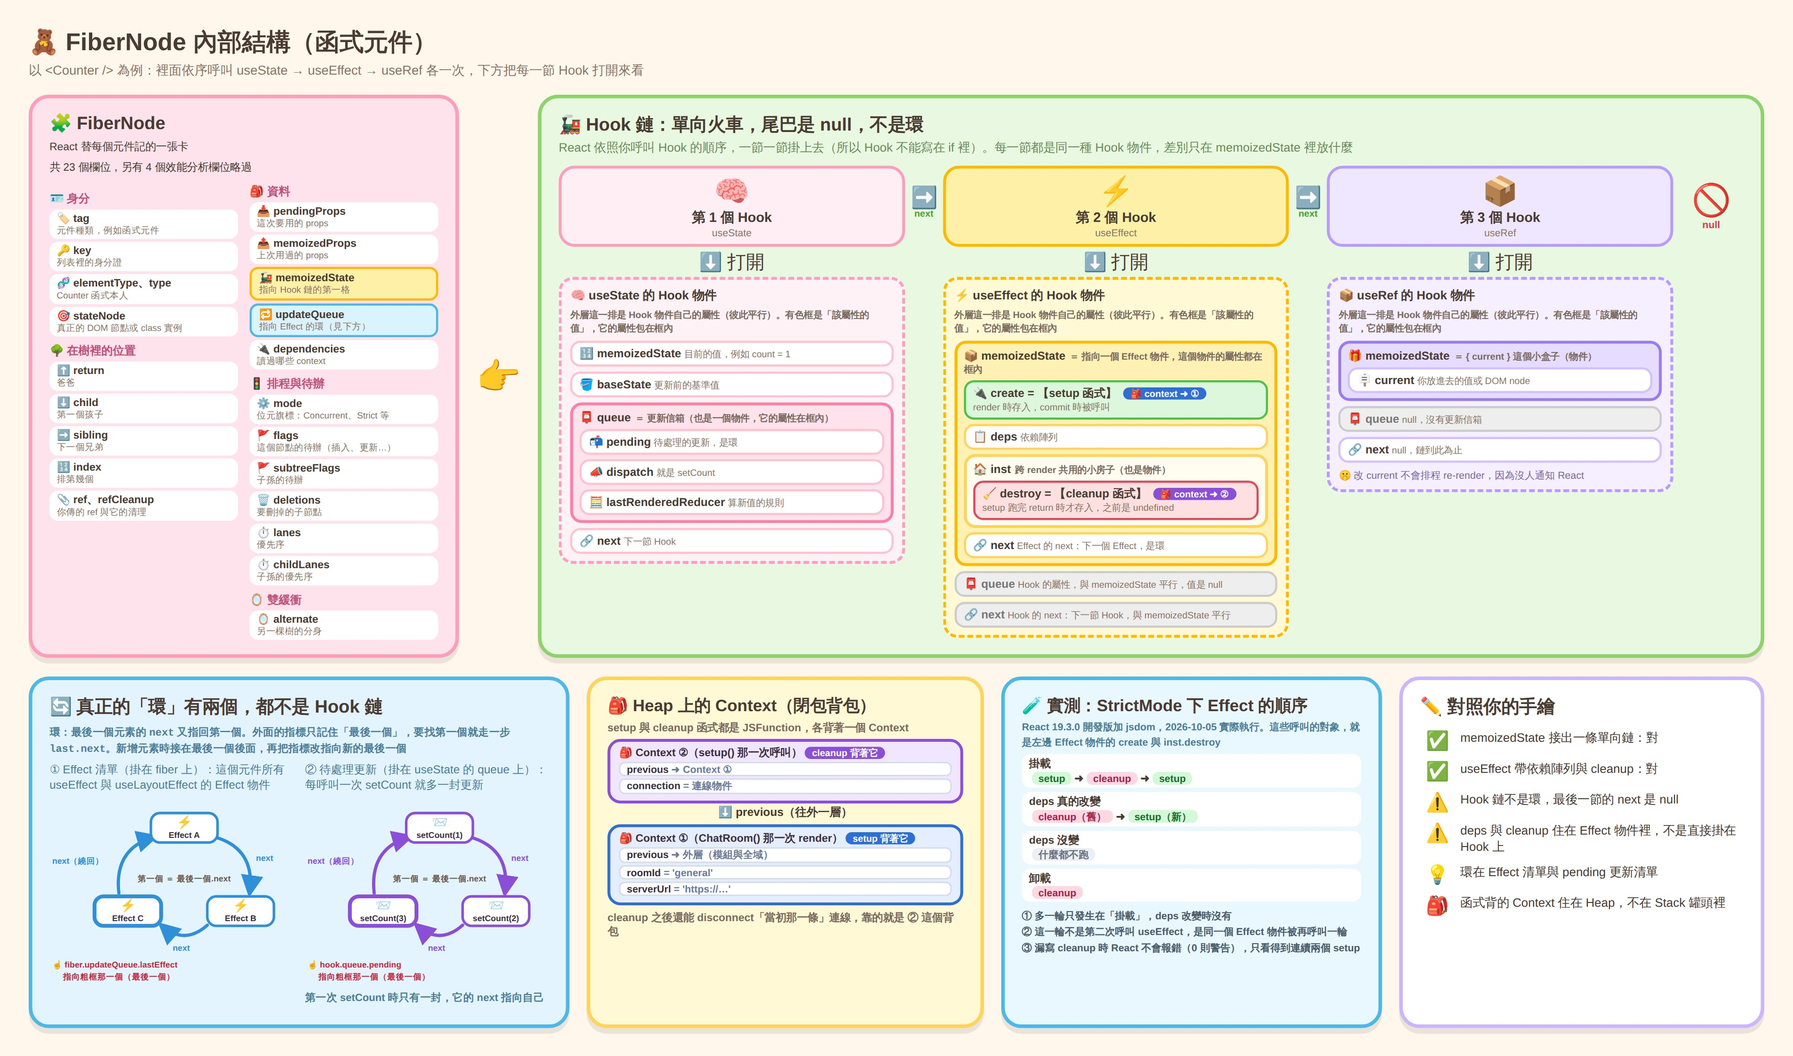
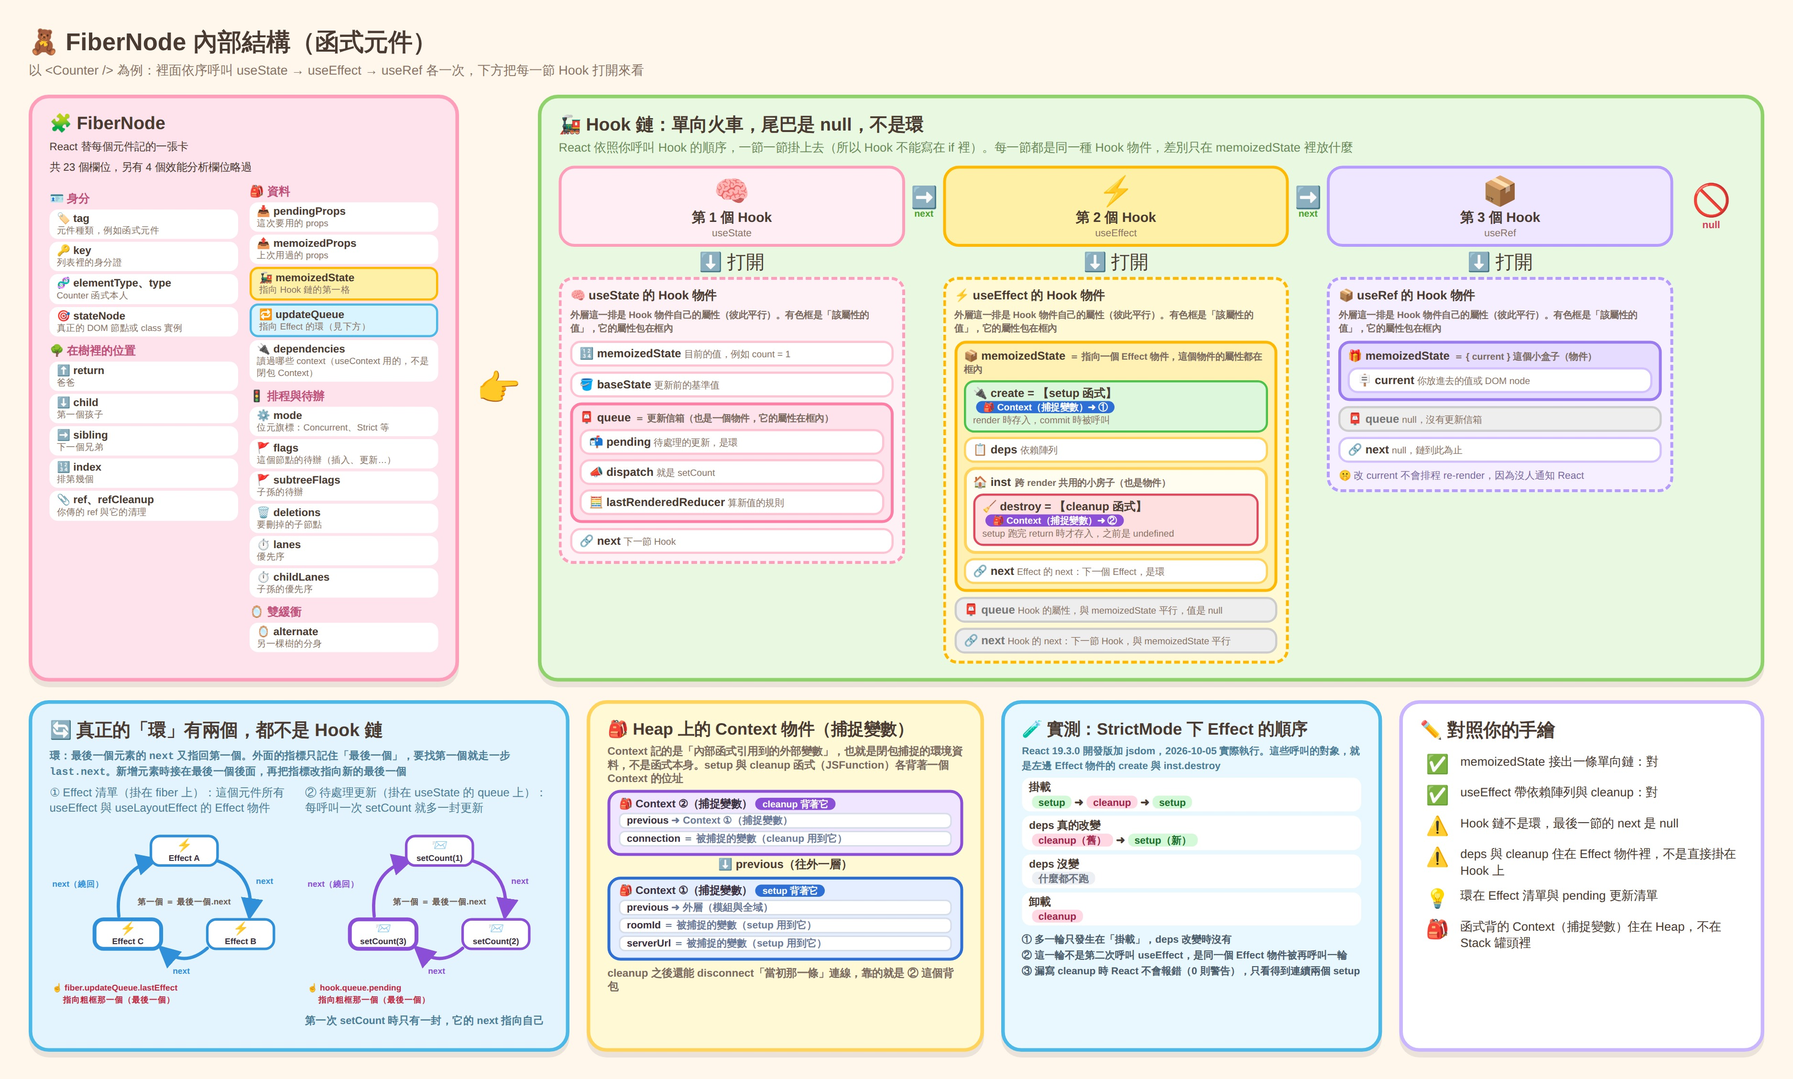
docs: Context 物件旁標註（捕捉變數），強調它記的是閉包捕捉的外部變數而非函式本身

diff --git a/frontend-docs/react/FiberNode內部結構-可愛圖.html b/frontend-docs/react/FiberNode內部結構-可愛圖.html
@@ -106,7 +106,7 @@ td:first-child{width:44px;font-size:26px}
   <div class="row">
     <div class="card fiber">
 <h2>🧩 FiberNode<br><small style="font-size:15px;font-weight:400">React 替每個元件記的一張卡<br>共 23 個欄位，另有 4 個效能分析欄位略過</small></h2>
-<div class="cols"><div class="gb"><div class="grp">🪪 身分</div><div class="f2 "><b>🏷 tag</b><small>元件種類，例如函式元件</small></div><div class="f2 "><b>🔑 key</b><small>列表裡的身分證</small></div><div class="f2 "><b>🧬 elementType、type</b><small>Counter 函式本人</small></div><div class="f2 "><b>🎯 stateNode</b><small>真正的 DOM 節點或 class 實例</small></div></div><div class="gb"><div class="grp">🌳 在樹裡的位置</div><div class="f2 "><b>⬆ return</b><small>爸爸</small></div><div class="f2 "><b>⬇ child</b><small>第一個孩子</small></div><div class="f2 "><b>➡ sibling</b><small>下一個兄弟</small></div><div class="f2 "><b>🔢 index</b><small>排第幾個</small></div><div class="f2 "><b>📎 ref、refCleanup</b><small>你傳的 ref 與它的清理</small></div></div><div class="gb"><div class="grp">🎒 資料</div><div class="f2 "><b>📥 pendingProps</b><small>這次要用的 props</small></div><div class="f2 "><b>📤 memoizedProps</b><small>上次用過的 props</small></div><div class="f2 hot"><b>🚂 memoizedState</b><small>指向 Hook 鏈的第一格</small></div><div class="f2 ring"><b>🔁 updateQueue</b><small>指向 Effect 的環（見下方）</small></div><div class="f2 "><b>🔌 dependencies</b><small>讀過哪些 context</small></div></div><div class="gb"><div class="grp">🚦 排程與待辦</div><div class="f2 "><b>⚙ mode</b><small>位元旗標：Concurrent、Strict 等</small></div><div class="f2 "><b>🚩 flags</b><small>這個節點的待辦（插入、更新…）</small></div><div class="f2 "><b>🚩 subtreeFlags</b><small>子孫的待辦</small></div><div class="f2 "><b>🗑 deletions</b><small>要刪掉的子節點</small></div><div class="f2 "><b>⏱ lanes</b><small>優先序</small></div><div class="f2 "><b>⏱ childLanes</b><small>子孫的優先序</small></div></div><div class="gb"><div class="grp">🪞 雙緩衝</div><div class="f2 "><b>🪞 alternate</b><small>另一棵樹的分身</small></div></div></div>
+<div class="cols"><div class="gb"><div class="grp">🪪 身分</div><div class="f2 "><b>🏷 tag</b><small>元件種類，例如函式元件</small></div><div class="f2 "><b>🔑 key</b><small>列表裡的身分證</small></div><div class="f2 "><b>🧬 elementType、type</b><small>Counter 函式本人</small></div><div class="f2 "><b>🎯 stateNode</b><small>真正的 DOM 節點或 class 實例</small></div></div><div class="gb"><div class="grp">🌳 在樹裡的位置</div><div class="f2 "><b>⬆ return</b><small>爸爸</small></div><div class="f2 "><b>⬇ child</b><small>第一個孩子</small></div><div class="f2 "><b>➡ sibling</b><small>下一個兄弟</small></div><div class="f2 "><b>🔢 index</b><small>排第幾個</small></div><div class="f2 "><b>📎 ref、refCleanup</b><small>你傳的 ref 與它的清理</small></div></div><div class="gb"><div class="grp">🎒 資料</div><div class="f2 "><b>📥 pendingProps</b><small>這次要用的 props</small></div><div class="f2 "><b>📤 memoizedProps</b><small>上次用過的 props</small></div><div class="f2 hot"><b>🚂 memoizedState</b><small>指向 Hook 鏈的第一格</small></div><div class="f2 ring"><b>🔁 updateQueue</b><small>指向 Effect 的環（見下方）</small></div><div class="f2 "><b>🔌 dependencies</b><small>讀過哪些 context（useContext 用的，不是閉包 Context）</small></div></div><div class="gb"><div class="grp">🚦 排程與待辦</div><div class="f2 "><b>⚙ mode</b><small>位元旗標：Concurrent、Strict 等</small></div><div class="f2 "><b>🚩 flags</b><small>這個節點的待辦（插入、更新…）</small></div><div class="f2 "><b>🚩 subtreeFlags</b><small>子孫的待辦</small></div><div class="f2 "><b>🗑 deletions</b><small>要刪掉的子節點</small></div><div class="f2 "><b>⏱ lanes</b><small>優先序</small></div><div class="f2 "><b>⏱ childLanes</b><small>子孫的優先序</small></div></div><div class="gb"><div class="grp">🪞 雙緩衝</div><div class="f2 "><b>🪞 alternate</b><small>另一棵樹的分身</small></div></div></div>
 </div>
 
     <div class="arrow">👉</div>
@@ -141,11 +141,11 @@ td:first-child{width:44px;font-size:26px}
             <div class="pcap">外層這一排是 Hook 物件自己的屬性（彼此平行）。有色框是「該屬性的值」，它的屬性包在框內</div>
             <div class="nest nf">
               <div class="nh">📦 memoizedState<small>＝ 指向一個 Effect 物件，這個物件的屬性都在框內</small></div>
-              <div class="chip setup">🔌 create = 【setup 函式】 <span class="tg tgb">🎒 context ➜ ①</span><small>render 時存入，commit 時被呼叫</small></div>
+              <div class="chip setup">🔌 create = 【setup 函式】 <span class="tg tgb">🎒 Context（捕捉變數）➜ ①</span><small>render 時存入，commit 時被呼叫</small></div>
               <div class="chip">📋 deps<small>依賴陣列</small></div>
               <div class="nest ni">
                 <div class="nh">🏠 inst<small>跨 render 共用的小房子（也是物件）</small></div>
-                <div class="chip cleanup">🧹 destroy = 【cleanup 函式】 <span class="tg tgp">🎒 context ➜ ②</span><small>setup 跑完 return 時才存入，之前是 undefined</small></div>
+                <div class="chip cleanup">🧹 destroy = 【cleanup 函式】 <span class="tg tgp">🎒 Context（捕捉變數）➜ ②</span><small>setup 跑完 return 時才存入，之前是 undefined</small></div>
               </div>
               <div class="chip">🔗 next<small>Effect 的 next：下一個 Effect，是環</small></div>
             </div>
@@ -184,17 +184,17 @@ td:first-child{width:44px;font-size:26px}
       </div>
     </div>
     <div class="card ctxbox">
-      <h2>🎒 Heap 上的 Context（閉包背包）</h2>
-      <div class="cxcap">setup 與 cleanup 函式都是 JSFunction，各背著一個 Context</div>
-      <div class="cx cxp">🎒 Context ②（setup() 那一次呼叫）<span class="tg tgp">cleanup 背著它</span>
-        <div class="sl">previous <em>➜ Context ①</em></div>
-        <div class="sl">connection <em>= 連線物件</em></div>
+      <h2>🎒 Heap 上的 Context 物件（捕捉變數）</h2>
+      <div class="cxcap">Context 記的是「內部函式引用到的外部變數」，也就是閉包捕捉的環境資料，<b>不是函式本身</b>。setup 與 cleanup 函式（JSFunction）各背著一個 Context 的位址</div>
+      <div class="cx cxp">🎒 Context ②（捕捉變數）<span class="tg tgp">cleanup 背著它</span>
+        <div class="sl">previous <em>➜ Context ①（捕捉變數）</em></div>
+        <div class="sl">connection <em>＝ 被捕捉的變數（cleanup 用到它）</em></div>
       </div>
       <div class="pv">⬇ previous（往外一層）</div>
-      <div class="cx cxb">🎒 Context ①（ChatRoom() 那一次 render）<span class="tg tgb">setup 背著它</span>
+      <div class="cx cxb">🎒 Context ①（捕捉變數）<span class="tg tgb">setup 背著它</span>
         <div class="sl">previous <em>➜ 外層（模組與全域）</em></div>
-        <div class="sl">roomId <em>= 'general'</em></div>
-        <div class="sl">serverUrl <em>= 'https://…'</em></div>
+        <div class="sl">roomId <em>＝ 被捕捉的變數（setup 用到它）</em></div>
+        <div class="sl">serverUrl <em>＝ 被捕捉的變數（setup 用到它）</em></div>
       </div>
       <div class="cxcap" style="margin-top:8px">cleanup 之後還能 disconnect「當初那一條」連線，靠的就是 ② 這個背包</div>
     </div>
@@ -215,7 +215,7 @@ td:first-child{width:44px;font-size:26px}
         <tr><td>⚠</td><td>Hook 鏈不是環，最後一節的 next 是 null</td></tr>
         <tr><td>⚠</td><td>deps 與 cleanup 住在 Effect 物件裡，不是直接掛在 Hook 上</td></tr>
         <tr><td>💡</td><td>環在 Effect 清單與 pending 更新清單</td></tr>
-        <tr><td>🎒</td><td>函式背的 Context 住在 Heap，不在 Stack 罐頭裡</td></tr>
+        <tr><td>🎒</td><td>函式背的 Context（捕捉變數）住在 Heap，不在 Stack 罐頭裡</td></tr>
       </table>
     </div>
   </div>

diff --git a/frontend-docs/react/02-useEffect的setup清理函式-return一個函式而不是執行它-互動版.html b/frontend-docs/react/02-useEffect的setup清理函式-return一個函式而不是執行它-互動版.html
@@ -174,6 +174,9 @@ footer a{color:var(--accent)}
   .rt-fn.show{display:block}
   .rt-fn small{display:block;font-weight:400;color:var(--muted);font-size:.78rem}
   .rt-link{color:#d98324;font-weight:800}
+  .rt-ctx{display:none;border:3px solid #8a4fd6;background:#f0e6ff;border-radius:10px;padding:6px 10px;margin-top:8px;font-size:.84rem;font-weight:700}
+  .rt-ctx.show{display:block}
+  .rt-ctx small{display:block;font-weight:400;color:var(--muted);font-size:.78rem}
   .rt-con{background:#1f2430;color:#9fe3b0;border-radius:8px;padding:7px 12px;font-family:Consolas,monospace;font-size:.84rem;margin-top:10px;min-height:2.2em}
   .rt-say{margin-top:10px;border-left:5px solid var(--accent);background:#eef0ff;border-radius:0 8px 8px 0;padding:9px 13px;font-size:.93rem}
   .rt-say b{color:#c0283f}
@@ -187,6 +190,7 @@ footer a{color:var(--accent)}
         <div class="rt-row">create <small id="rt-create">＝ setup 函式（render 時就存好了）</small></div>
         <div class="rt-row">inst.destroy <small id="rt-destroy">＝ undefined（還沒有 cleanup）</small></div>
         <div class="rt-fn" id="rt-fn">🧹 <code>() =&gt; clearInterval(id)</code><small id="rt-fnsub"></small></div>
+        <div class="rt-ctx" id="rt-ctx">🎒 Context 物件（捕捉變數）：<code>id = 7</code><small>記的是 cleanup 函式引用到的外部變數，不是函式本身。上面那個函式物件只是「背著」它的位址</small></div>
       </div>
     </div>
     <div class="rt-con" id="rt-con"></div>
@@ -198,7 +202,7 @@ footer a{color:var(--accent)}
     var steps=[
       {t:"① React 呼叫 setup()",line:1,stack:[["React 的 commit 函式",""],["setup()","top"]],fn:0,destroy:"＝ undefined（還沒有 cleanup）",con:"計時器 id = 7 已啟動",say:"setup 的第一行在做事：<b>開始同步</b>（啟動計時器）。這是真的在執行。"},
       {t:"② 執行到 return 這一行",line:2,stack:[["React 的 commit 函式",""],["setup()","top"]],fn:1,fnsub:"剛在 Heap 建立，還沒交給任何人",destroy:"＝ undefined（還是空的）",con:"（沒有任何新輸出：clearInterval 一次都沒被呼叫）",say:"<b>return 這一刻只是「建立」一個函式物件</b>，放在 Heap，<b>沒有執行它</b>。箭頭函式本體裡的 clearInterval(id) 要等到有人呼叫它才會跑。"},
-      {t:"③ setup() 回傳：交給 React",line:3,stack:[["React 的 commit 函式",""]],fn:1,fnsub:"已被 React 收下，背著 id = 7",destroy:"<span class='rt-link'>➜ 指向上面那個 cleanup 函式</span>（React 把它存進來了）",con:"（仍然沒有新輸出）",say:"<b>return 對應的動作，就是「把這個函式交給呼叫 setup 的 React」</b>。React 把它存進 Effect 物件的 inst.destroy。此時 setup() 罐頭已彈出，Stack 上沒有任何 cleanup。"},
+      {t:"③ setup() 回傳：交給 React",line:3,stack:[["React 的 commit 函式",""]],fn:1,fnsub:"已被 React 收下，背著 Context（捕捉變數）：id = 7",destroy:"<span class='rt-link'>➜ 指向上面那個 cleanup 函式</span>（React 把它存進來了）",con:"（仍然沒有新輸出）",say:"<b>return 對應的動作，就是「把這個函式交給呼叫 setup 的 React」</b>。React 把它存進 Effect 物件的 inst.destroy。此時 setup() 罐頭已彈出，Stack 上沒有任何 cleanup。"},
       {t:"④ 之後 deps 改變：React 呼叫 cleanup",line:-1,stack:[["React 的 commit 函式",""],["cleanup()","cl"]],fn:1,fnsub:"正在被 React 呼叫",destroy:"＝ undefined（React 先清空，再呼叫它）",con:"clearInterval(7) 被呼叫，計時器停止",say:"cleanup 是被 React「另一次」呼叫的，<b>從來沒有跟 setup() 同時在 Stack 上</b>。直到這一步，clearInterval 才真的執行。"}
     ];
     var $=function(i){return document.getElementById(i)};
@@ -210,6 +214,7 @@ footer a{color:var(--accent)}
       $("rt-code").innerHTML=code.map(function(c,k){return "<div class='"+(k===st.line?"hl":"")+"'>"+c.replace(/</g,"&lt;").replace(/>/g,"&gt;")+"</div>"}).join("");
       $("rt-stack").innerHTML=st.stack.length?st.stack.map(function(c){return "<div class='rt-can "+c[1]+"'>🥫 "+c[0]+(c[1].indexOf("top")>-1||c[1]==="cl"?" ⬅ 執行中":"")+"</div>"}).join(""):"<div class='rt-empty'>stack 是空的</div>";
       $("rt-fn").className="rt-fn"+(st.fn?" show":"");
+      $("rt-ctx").className="rt-ctx"+(st.fn?" show":"");
       $("rt-fnsub").textContent=st.fnsub||"";
       $("rt-destroy").innerHTML=st.destroy;
       $("rt-con").textContent="> "+st.con;
@@ -296,7 +301,7 @@ footer a{color:var(--accent)}
     <div>
       <h3>被內層函式引用（本篇的情況）</h3>
       <p style="font-size:.93rem">引擎在 Parse 階段的 Scope Analysis 就判定它會逃逸，改配置在
-      <span class="hl-g">Heap 上的 Context 物件</span>。setup 的 Execution Context 拆掉之後，
+      <span class="hl-g">Heap 上的 Context 物件（捕捉變數）</span>。setup 的 Execution Context 拆掉之後，
       <code>id</code> 依然活著，直到沒人引用才被 GC 回收。</p>
     </div>
   </div>
@@ -344,7 +349,7 @@ type EffectInstance = {
     <div class="q">2. 清理函式能關掉「當初那一個」計時器，是因為 <code>id</code> 被閉包捕獲後配置在 Heap 上。</div>
     <button data-v="true">○ 是</button><button data-v="false">✗ 非</button>
     <div class="fb"></div>
-    <div class="exp" hidden>對。引擎在 Scope Analysis 就判定 <code>id</code> 會逃逸，把它放進 Heap 上的 Context 物件，所以 setup 函式的 Stack Frame 彈掉之後它依然存活。</div>
+    <div class="exp" hidden>對。引擎在 Scope Analysis 就判定 <code>id</code> 會逃逸，把它放進 Heap 上的 Context 物件（捕捉變數），所以 setup 函式的 Stack Frame 彈掉之後它依然存活。</div>
   </div>
 
   <div class="tf" data-ans="false">
@@ -391,7 +396,7 @@ type EffectInstance = {
         <li><b>是什麼</b>：<code>useEffect</code> 的 setup 函式可以選擇性地回傳一個函式，React 官方稱它 cleanup function，存在該 effect 的 <code>inst.destroy</code> 欄位。</li>
         <li><b>為什麼需要</b>：effect 常會建立「持續存在的東西」——計時器、事件監聽器、WebSocket 連線、訂閱。這些不會隨元件消失而自動消失，必須主動關掉，否則就是記憶體洩漏。</li>
         <li><b>什麼時候被呼叫</b>：卸載後、每次重跑 setup 之前、以及 StrictMode 開發模式下掛載後多跑的那一輪。順序永遠成對交錯。</li>
-        <li><b>底層原理</b>：cleanup 靠閉包抓住 setup 當次的區域變數。這些變數因為被捕獲而配置在 Heap 的 Context 物件而非 Stack，所以 setup <code>return</code> 之後依然活著，直到 cleanup 被呼叫、effect 卸載、沒人引用，才被 GC 回收。</li>
+        <li><b>底層原理</b>：cleanup 靠閉包抓住 setup 當次的區域變數。這些變數因為被捕獲而配置在 Heap 的 Context 物件（捕捉變數）而非 Stack，所以 setup <code>return</code> 之後依然活著，直到 cleanup 被呼叫、effect 卸載、沒人引用，才被 GC 回收。</li>
       </ol>
     </div>
   </div>

diff --git a/frontend-docs/react/Heap的Context-閉包背包-可愛圖.html b/frontend-docs/react/Heap的Context-閉包背包-可愛圖.html
@@ -44,8 +44,8 @@ code{background:#f1ede6;border-radius:5px;padding:0 4px;font-size:14px}
 </head>
 <body>
 <div id="art">
-  <h1>🎒 Heap 上的 Context：閉包的「背包」</h1>
-  <div class="sub">一般區域變數住在 Stack 的罐頭裡，罐頭彈出就消失。若內層函式還會用到它，引擎就把它裝進 Heap 上的 Context（背包），函式物件再背著這個背包走。<br>以 &lt;ChatRoom /&gt; 的 useEffect 為例，顏色對應：<span class="v b">藍 = Context ①（ChatRoom 那一次 render 的背包）</span> <span class="v p">紫 = Context ②（setup() 那一次呼叫的背包）</span></div>
+  <h1>🎒 Heap 上的 Context 物件（捕捉變數）：閉包的「背包」</h1>
+  <div class="sub">一般區域變數住在 Stack 的罐頭裡，罐頭彈出就消失。若內層函式還會用到它，引擎就把它裝進 Heap 上的 Context 物件（背包），函式物件再背著這個背包走。<b>Context 記住的是「內部函式引用的外部變數」，也就是閉包捕捉的環境資料，不是函式本身</b>。<br>以 &lt;ChatRoom /&gt; 的 useEffect 為例，顏色對應：<span class="v b">藍 = Context ①（ChatRoom 那一次 render 的背包）</span> <span class="v p">紫 = Context ②（setup() 那一次呼叫的背包）</span></div>
 
   <div class="cols">
     <div class="card code">
@@ -76,20 +76,20 @@ code{background:#f1ede6;border-radius:5px;padding:0 4px;font-size:14px}
     <div class="card heap">
       <h2>🏠 Heap（一直都在）</h2>
       <div class="eff">Effect 物件
-        <div class="fn"><span>create ➜</span><div class="fnb s">🔌 setup 函式（JSFunction）</div><span class="tag b">🎒 context ➜ ①</span></div>
-        <div class="fn"><span>inst.destroy ➜</span><div class="fnb c">🧹 cleanup 函式（JSFunction）</div><span class="tag p">🎒 context ➜ ②</span></div>
+        <div class="fn"><span>create ➜</span><div class="fnb s">🔌 setup 函式（JSFunction）</div><span class="tag b">🎒 Context（捕捉變數）➜ ①</span></div>
+        <div class="fn"><span>inst.destroy ➜</span><div class="fnb c">🧹 cleanup 函式（JSFunction）</div><span class="tag p">🎒 Context（捕捉變數）➜ ②</span></div>
       </div>
-      <div class="ctx p">🎒 Context ②（setup() 那一次呼叫）
+      <div class="ctx p">🎒 Context ②（捕捉變數）｜setup() 那一次呼叫
         <div class="slot">scope_info <em>描述有哪些變數</em></div>
         <div class="slot">previous <em>➜ Context ①</em></div>
-        <div class="slot">connection <em>= 連線物件 { connect, disconnect }</em></div>
+        <div class="slot">connection <em>＝ 被捕捉的變數：連線物件 { connect, disconnect }</em></div>
       </div>
       <div class="prev">⬇ previous（往外一層）</div>
-      <div class="ctx b">🎒 Context ①（ChatRoom() 那一次 render）
+      <div class="ctx b">🎒 Context ①（捕捉變數）｜ChatRoom() 那一次 render
         <div class="slot">scope_info</div>
         <div class="slot">previous <em>➜ 外層（模組與全域）的 Context</em></div>
-        <div class="slot">roomId <em>= 'general'</em></div>
-        <div class="slot">serverUrl <em>= 'https://localhost:1234'</em></div>
+        <div class="slot">roomId <em>＝ 被捕捉的變數：'general'</em></div>
+        <div class="slot">serverUrl <em>＝ 被捕捉的變數：'https://localhost:1234'</em></div>
       </div>
     </div>
   </div>

diff --git a/frontend-docs/react/useState底層-Fiber-Tree-memoizedState與過期閉包.md b/frontend-docs/react/useState底層-Fiber-Tree-memoizedState與過期閉包.md
@@ -88,7 +88,7 @@ fiberNode = {
 ![[FiberNode內部結構_Hook單向鏈與Effect環_2026-10-04.jpg]]
 
 上圖的原始檔是同資料夾的 `FiberNode內部結構-可愛圖.html`。
-圖左邊那張卡列出 `FiberNode` 全部 23 個欄位（另有 4 個效能分析欄位 `actualDuration` 等略過），依據是原始碼 `ReactFiber.js` 的 `FiberNode` 建構函式，分成身分、樹位置、資料、排程與待辦、雙緩衝五組。圖底部另有一張 Context 背包卡，說明 setup 與 cleanup 兩個函式各背著 Heap 上的哪個 Context，細節見 [[02-useEffect的setup清理函式-return一個函式而不是執行它]] 的 (e)。旁邊還有一張 StrictMode 實測卡，列出開發模式下 `create` 與 `inst.destroy` 被呼叫的真實順序，詳見 [[03-useEffect將元件同步到外部系統-Web-API與DOM]] 的 d。
+圖左邊那張卡列出 `FiberNode` 全部 23 個欄位（另有 4 個效能分析欄位 `actualDuration` 等略過），依據是原始碼 `ReactFiber.js` 的 `FiberNode` 建構函式，分成身分、樹位置、資料、排程與待辦、雙緩衝五組。圖底部另有一張 Context 物件（捕捉變數）卡：Context 記的是閉包捕捉的外部變數，不是函式本身，說明 setup 與 cleanup 兩個函式各背著 Heap 上的哪個 Context，細節見 [[02-useEffect的setup清理函式-return一個函式而不是執行它]] 的 (e)。旁邊還有一張 StrictMode 實測卡，列出開發模式下 `create` 與 `inst.destroy` 被呼叫的真實順序，詳見 [[03-useEffect將元件同步到外部系統-Web-API與DOM]] 的 d。
 常有人把這條鏈畫成「環」，其實有兩條不同的鏈，形狀不一樣：
 
 | 鏈 | 從哪裡出發 | 形狀 | 依據（`ReactFiberHooks.js`） |
